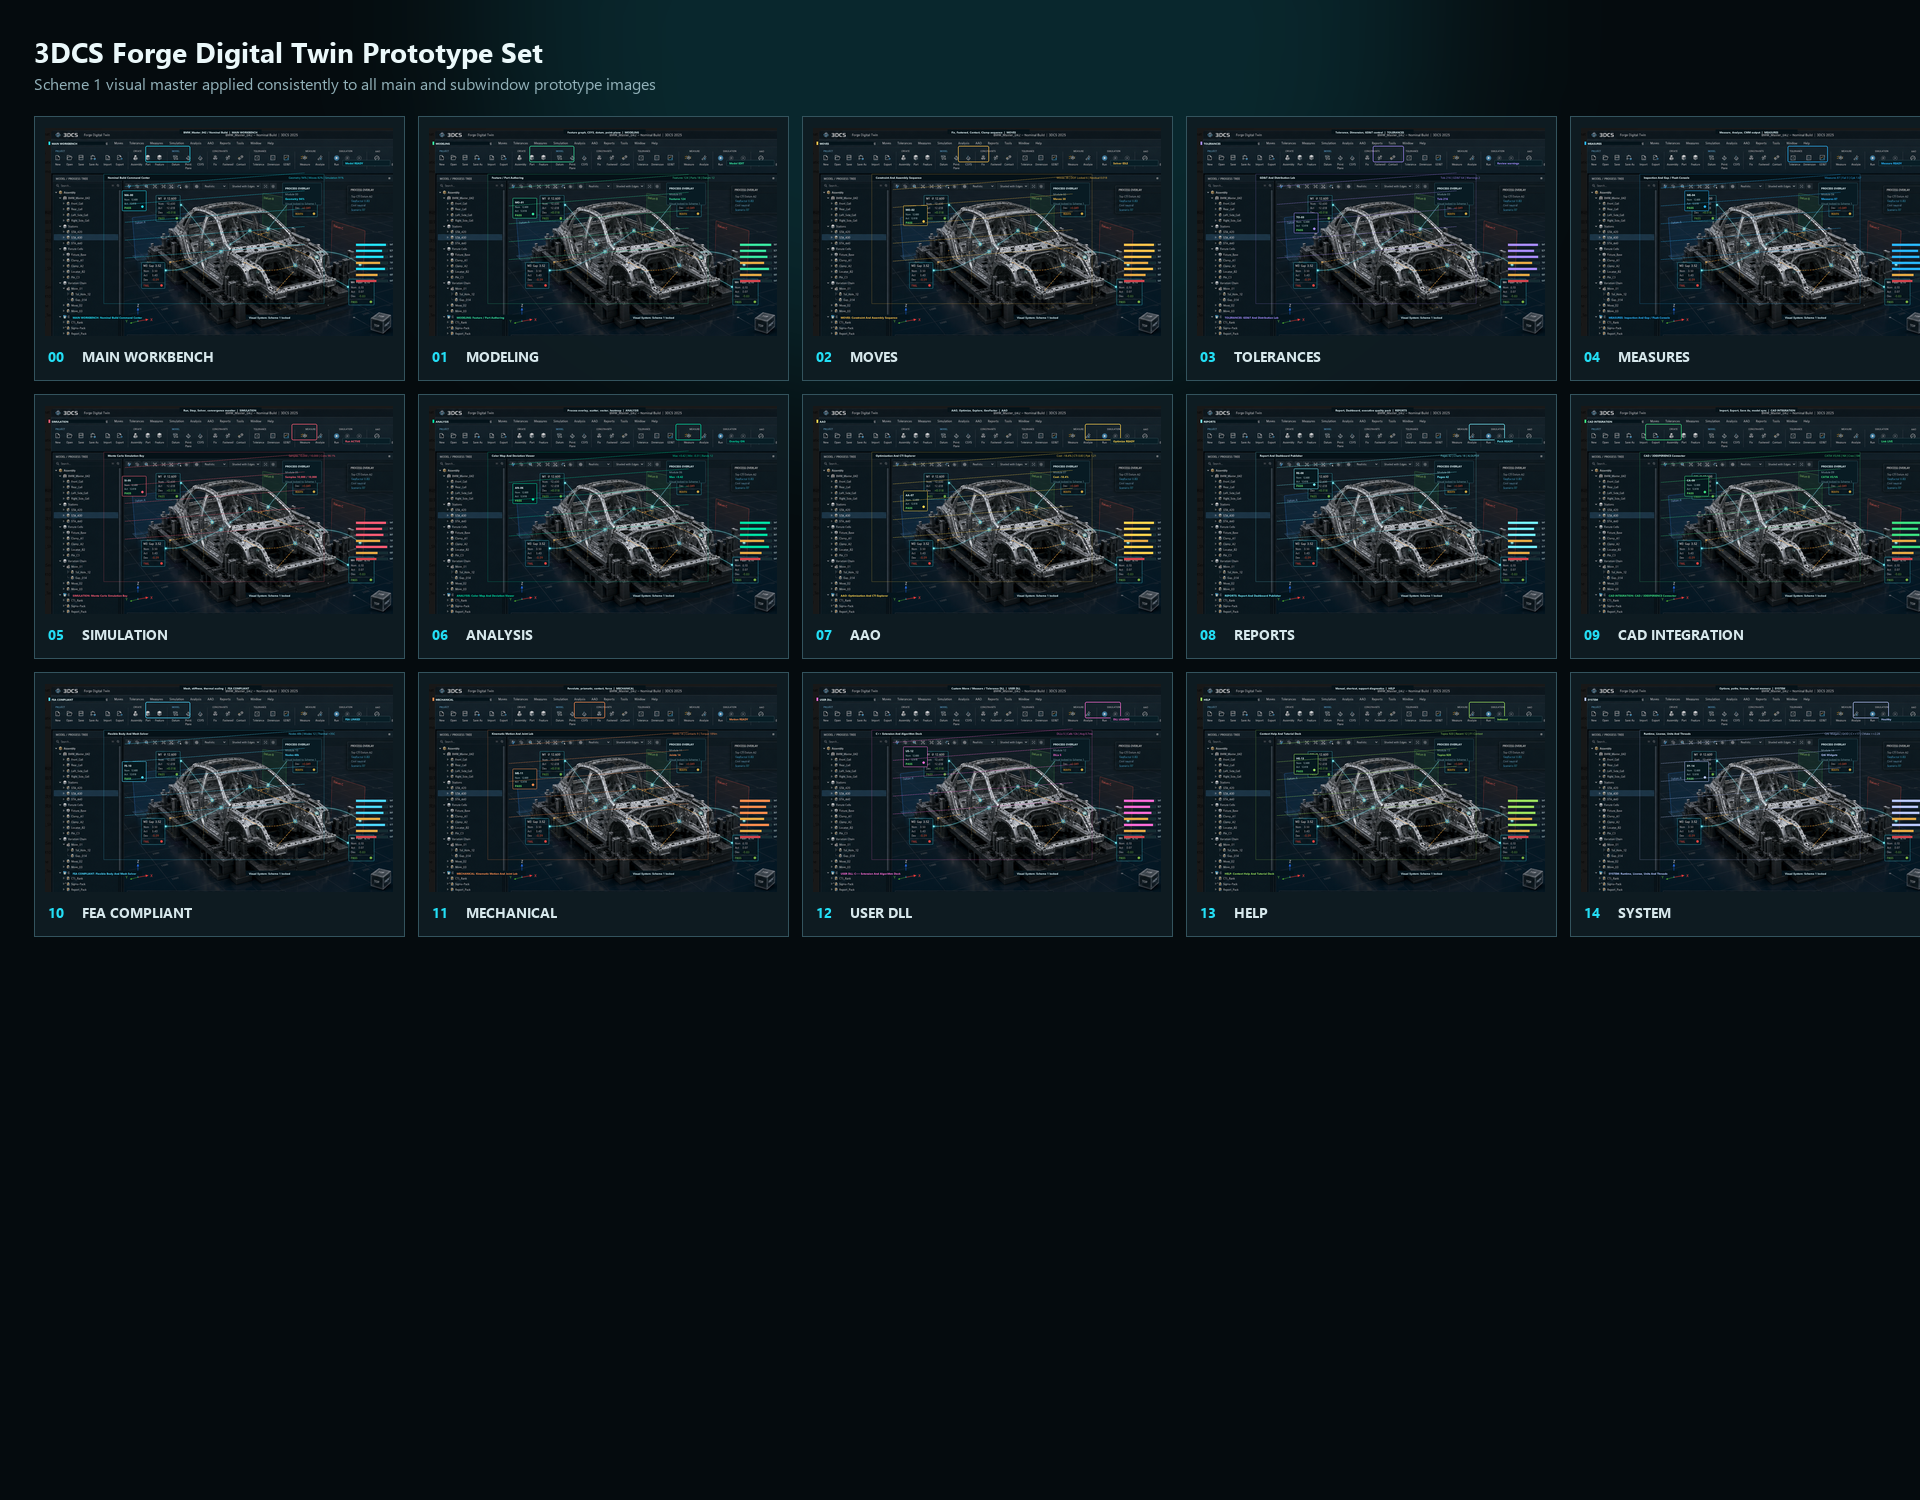
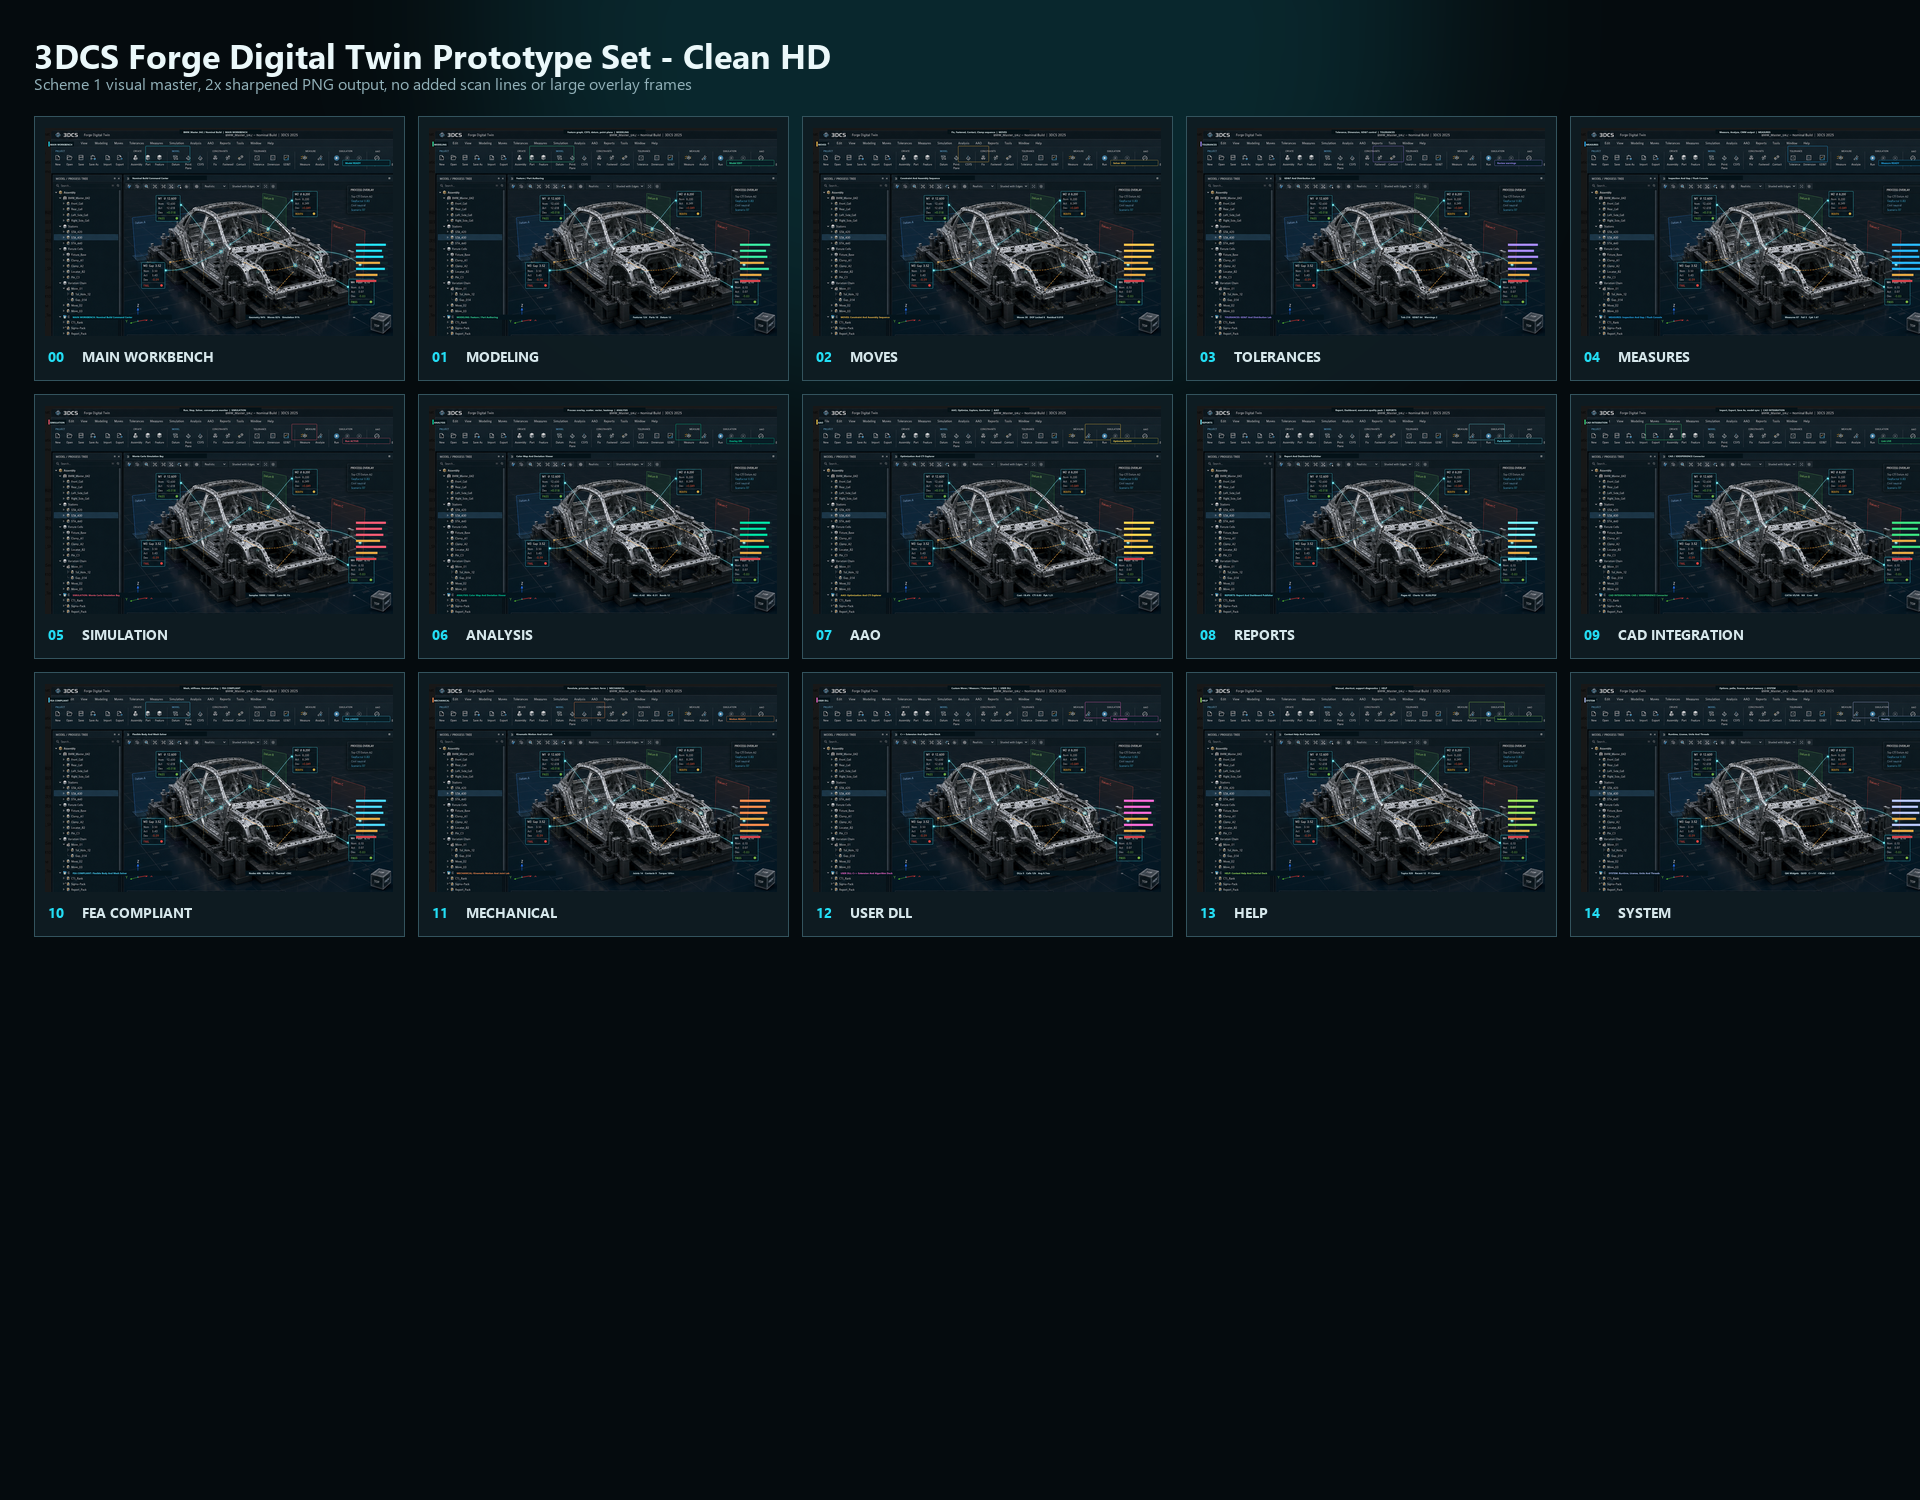
Clean up Scheme 1 prototype image output

diff --git a/doc/prototypes/forge-digital-twin-product-design/README.md b/doc/prototypes/forge-digital-twin-product-design/README.md
@@ -1,11 +1,12 @@
 # 3DCS Forge Digital Twin Product Design Prototypes
 
-This set is regenerated from the provided Scheme 1 reference image and keeps the same visual system across every main/subwindow prototype.
+Clean HD revision generated from the provided Scheme 1 reference image.
 
-Reference traits preserved:
-- dark blue-black industrial Qt QWidget shell
-- dense ribbon toolbar, model/process tree, central 3D viewport, quality inspector, bottom execution/result tables
-- cyan measurement callouts, status chips, grid floor, translucent process overlays, module telemetry
+Changes in this revision:
+- 2x PNG output with sharpening for clearer viewing
+- removed added scan lines, oversized viewport frames, and extra connector lines
+- preserved the Scheme 1 industrial UI shell consistently across all subwindows
+- only small module labels, active ribbon highlights, status chips, and bottom telemetry differ per page
 
 Files:
 - 00_main_workbench.png - MAIN WORKBENCH
